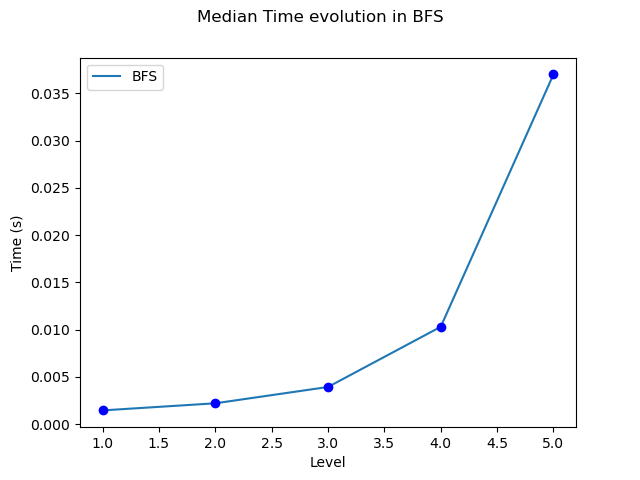
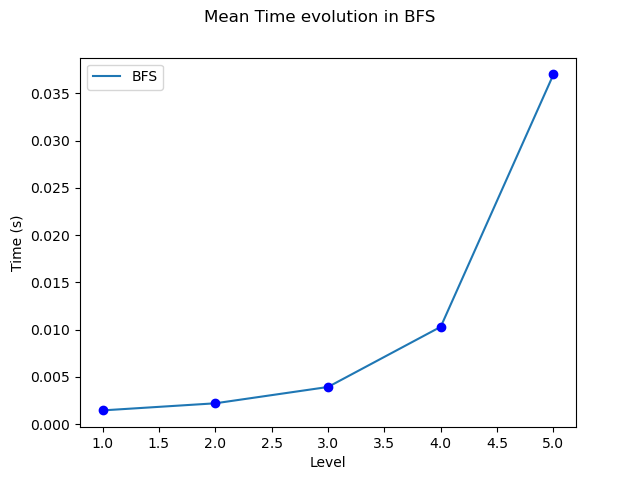
updated plots

Changed region(s): [[0.3125, 0.0, 0.6875, 0.0625]]

diff --git a/data_analysis.py b/data_analysis.py
@@ -123,10 +123,10 @@ def plot_time():
         values_median_time_bfs.append(test.all_results_bfs[i].median_execution_time)
     for i in range (5):
         values_median_time_aStar.append(test.all_results_aStar[i].median_execution_time)
-    plot_line(names,values_median_time_bfs,'BFS','Level','Time (s)','Median Time evolution in BFS','bfs_time_line')
-    plot_bar(names,values_median_time_bfs,'BFS','Level','Time (s)','Median Time evolution in BFS','bfs_time_bar')
-    plot_line(names,values_median_time_aStar,'aStar','Level','Time (s)','Median Time evolution in aStar','aStar_time_line')
-    plot_bar(names,values_median_time_aStar,'aStar','Level','Time (s)','Median Time evolution in aStar','aStar_time_bar')
+    plot_line(names,values_median_time_bfs,'BFS','Level','Time (s)','Mean Time evolution in BFS','bfs_time_line')
+    plot_bar(names,values_median_time_bfs,'BFS','Level','Time (s)','Mean Time evolution in BFS','bfs_time_bar')
+    plot_line(names,values_median_time_aStar,'aStar','Level','Time (s)','Mean Time evolution in aStar','aStar_time_line')
+    plot_bar(names,values_median_time_aStar,'aStar','Level','Time (s)','Mean Time evolution in aStar','aStar_time_bar')
 
 
 def plot_steps_group():
@@ -145,7 +145,7 @@ def plot_steps_group():
     plt.plot(levels,values_median_steps_aStar,'bo')
     plt.ylabel('Steps Number')
     plt.xlabel('Difficulty Level')
-    plt.title("Median Steps Evolution by Level")
+    plt.title("Mean Steps Evolution by Level")
     plt.legend()
     plt.tight_layout()
     plt.savefig('plots/group_steps_line.png')
@@ -177,7 +177,7 @@ def plot_steps_group():
     autolabel(rects1)
     autolabel(rects2)
     fig.tight_layout()
-    plt.title("Median Steps Evolution by Level")
+    plt.title("Mean Steps Evolution by Level")
     plt.tight_layout()
     plt.savefig('plots/group_steps_bar.png')
     ###plt.show()
@@ -200,7 +200,7 @@ def plot_time_group():
     plt.plot(levels,values_median_time_aStar,'bo')
     plt.ylabel('Execution Time (s)')
     plt.xlabel('Difficulty Level')
-    plt.title("Median Time Evolution by Level")
+    plt.title("Mean Time Evolution by Level")
     plt.legend()
     plt.tight_layout()
     plt.savefig('plots/group_time_line.png')
@@ -232,7 +232,7 @@ def plot_time_group():
     autolabel(rects1)
     autolabel(rects2)
     fig.tight_layout()
-    plt.title("Median Time Evolution by Level")
+    plt.title("Mean Time Evolution by Level")
     plt.tight_layout()
     plt.savefig('plots/group_time_bar.png')
     #plt.show()

diff --git a/README.md b/README.md
@@ -68,7 +68,7 @@ To execute analysis of both algorithms run [data_analysis.py](data_analysis.py),
 First row is to difficult level min, in other words 10 % of blanc spaces, second row to 20% and so on, until 50 %. First data in each row are median execution time for this difficulty level, second median steps, third  max number of steps, fourth min number of steps, fifth max execution time and sixth min execution time. After all calculations are plotted several pictures to provide a best analysis of the algorithms performance. In the Table below we can see various statistical data about performance of implemented algorithms.
 
 
-| Algorithms and % Blanc Spaces|   Minimum Execution Time | Time of Execution |  Mean Execution Time |   Median Execution Time | Max Execution Time |   Variance of Execution Time | Minimum Number of Steps | Mean Steps | Median Steps |  Max Steps | Variance of Steps |
+| Algorithms and % of Blanc Spaces|   Minimum Execution Time | Time of Execution |  Mean Execution Time |   Median Execution Time | Max Execution Time |   Variance of Execution Time | Minimum Number of Steps | Mean Steps | Median Steps |  Max Steps | Variance of Steps |
 |:--------------|------------------------------:|----------------------------:|-----------------------------:|-------------------------------:|----------------------------:|---------------------:|-------------------:|--------------------:|----------------------:|-------------------:|-------------------:|
 | AStar 10%|                           100 |                 0.00100255  |                   0.00259265 |                     0.00297916 |                  0.00499916 |                 4.4451e-07  |                 14 |              14.99  |                  15   |                 15 |           0.01     |
 | BFS 10%    |                           100 |                 0           |                   0.00146182 |                     0.00101817 |                  0.0029943  |                 2.91767e-07 |                  8 |               8.13  |                   8   |                 12 |           0.235455 |
@@ -98,7 +98,7 @@ In the graphics bellow we can see that up to the level of complexity three, that
 
  #### Conclusions
 
-For a sudoku boards tested in our work, varying the number of blanks from 10% to 50%, considering the median execution time the BFS algorithm has a better performance than aStar in all complexity levels. For a just comparison in future we will study how to calculate the computational cost in number of steps to calculate the priority queue in proposed heuristic.
+For a sudoku boards tested in our work, varying the number of blanks from 10% to 50%, considering the median execution time the BFS algorithm has a better performance than aStar in all complexity levels. For a just comparison in future we will study how to calculate the computational cost in number of steps to calculate the priority queue in proposed heuristic in our implementation of AStar algorithm.
 
 ## Prerequisites
   * Python 3
